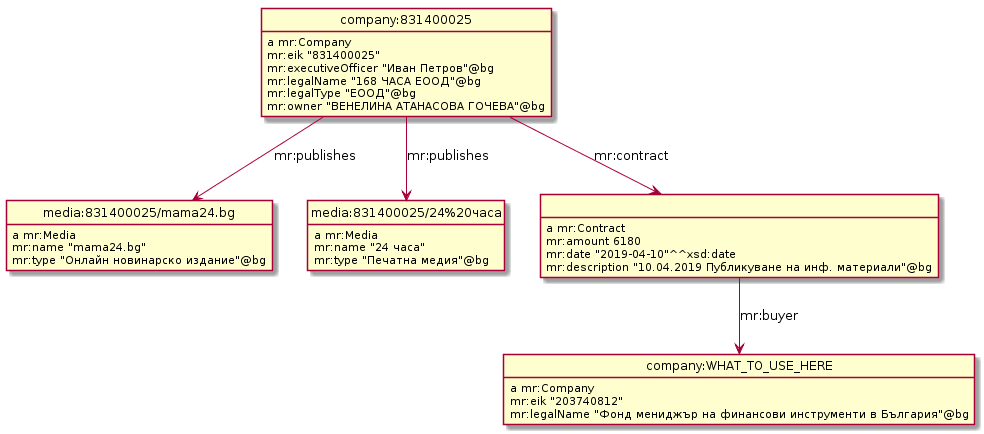
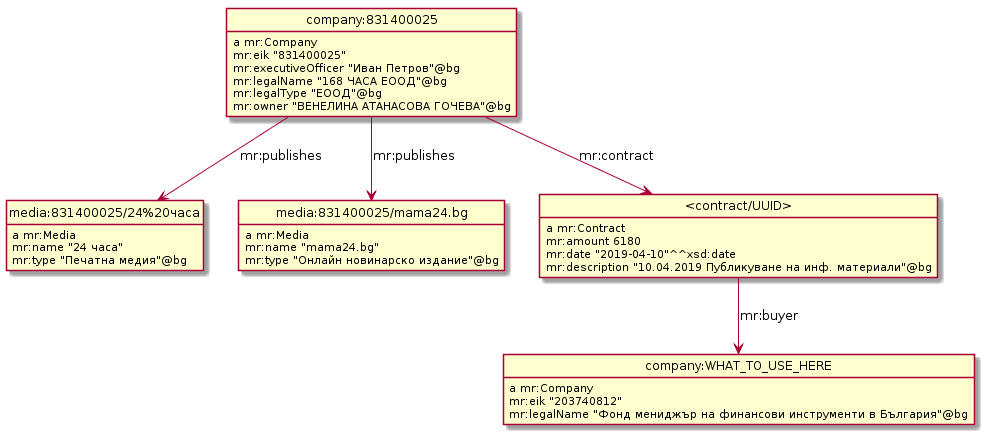
model readme

diff --git a/model/README.md b/model/README.md
@@ -49,6 +49,20 @@ Use the actual data to make a model.
 
 ```
 
+## Identification 
+
+*Companies* are identified using three diffrent modes. Thes are in order of preference:
+* EIK number
+* Wikidata Q-d for Bulgarian municipalities
+* MD5 hash of the company name
+
+*Media* are identified by a md5 hash of a combination of the media name, the media type and the parent company id
+
+*Contracts* are identified by the row number in the source data sheet. This is temporary until a bug in the transformation tool is fixed, after which we will use blank nodes. 
+
+
+
+
 ## Sample Diagram
 
 Use rdfpuml to make a diagram
